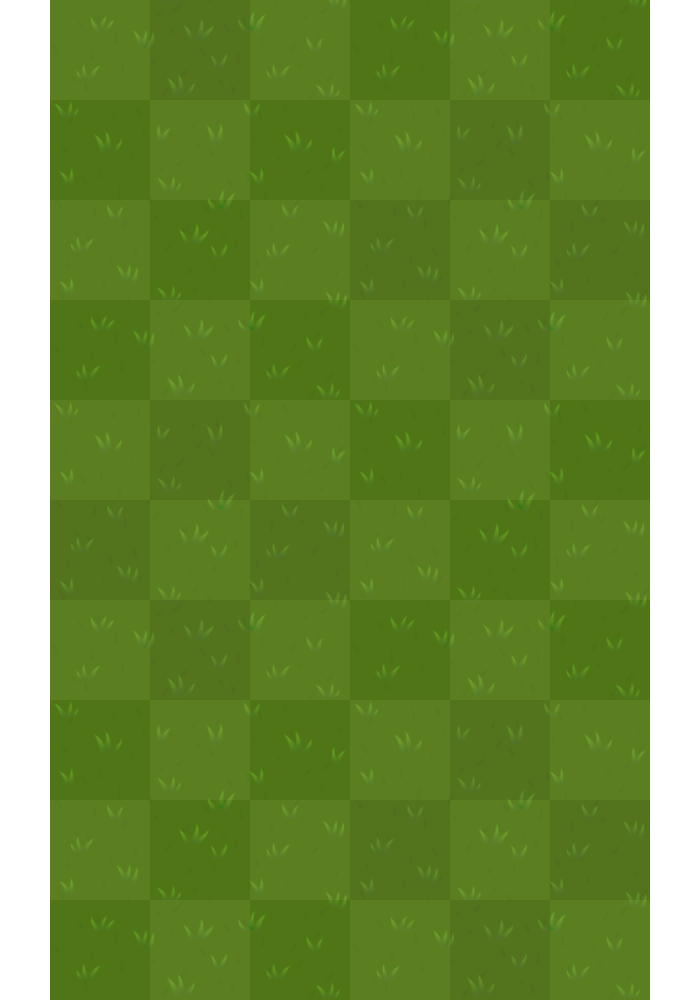
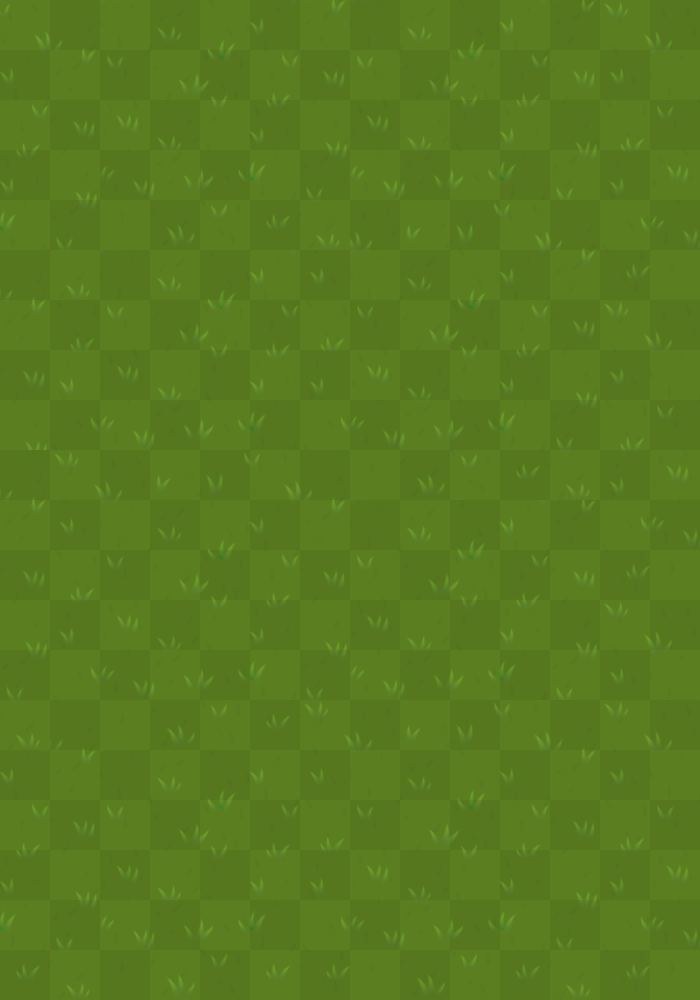
cambios de camara y mapa

Changed region(s): [[0.93, 0.0, 1.0, 1.0], [0.0, 0.0, 0.09, 1.0]]

diff --git a/src/private/Mapa.cpp b/src/private/Mapa.cpp
@@ -40,6 +40,10 @@ void Mapa::cargaMapa()
         tileset = tileset->NextSiblingElement("tileset");
     }
 
+    textura_fondo_ventana.loadFromFile("./resources/maps/tiles/fondoExterior.png");
+    sprite_fondo_ventana.setTexture(textura_fondo_ventana);
+    sprite_fondo_ventana.setPosition(-189.f, -100.f);
+    vectorPintar2.push_back(sprite_fondo_ventana);
     vector<sf::Texture*> vectorTextura;
     vector<sf::Sprite*> vectorSprite;
     for(int i=0; i<numTileset;i++)
@@ -163,6 +167,7 @@ void Mapa::cargaMapa()
                     {
                         if(valor <= vectorSprite.size())
                         {
+                            vectorSprite[valor-1]->setPosition(posY, posX);
                             vectorPintar2.push_back(*vectorSprite[valor-1]);
                             vPosX.push_back(posX);
                             vPosY.push_back(posY);
@@ -181,16 +186,16 @@ void Mapa::cargaMapa()
         layer = layer->NextSiblingElement("layer");
     }
     //Seteamos posiciones
-    vector<Sprite>::iterator j;
-    vector<int>::iterator x = vPosX.begin();
-    vector<int>::iterator y = vPosY.begin();
-    for(j = vectorPintar2.begin(); j != vectorPintar2.end(); j++)
-    {
-        //(*j).setOrigin(80/2,80/2);
-        (*j).setPosition(*y,*x);
-        x++;
-        y++;
-    }
+    // vector<Sprite>::iterator j;
+    // vector<int>::iterator x = vPosX.begin();
+    // vector<int>::iterator y = vPosY.begin();
+    // for(j = vectorPintar2.begin(); j != vectorPintar2.end(); j++)
+    // {
+    //     //(*j).setOrigin(80/2,80/2);
+    //     (*j).setPosition(*y,*x);
+    //     x++;
+    //     y++;
+    // }
 }
 
 list<Actor*> Mapa::getActors()

diff --git a/src/private/Engine.cpp b/src/private/Engine.cpp
@@ -42,8 +42,8 @@ void Engine::setView(float centerY, float borderX)
     //     posArriba = 280.f;
     if(posArriba > 380.f)
         posArriba = 380.f;
-    vista.reset(sf::FloatRect(0.f, posArriba, app.getSize().x, app.getSize().y));
-    vista.setViewport(sf::FloatRect(borderX, 0, 1.f, 1.f));
+    vista.reset(sf::FloatRect(borderX, posArriba, app.getSize().x, app.getSize().y));
+    //vista.setViewport(sf::FloatRect(borderX, 0, 1.f, 1.f));
     app.setView(vista);
 }
 

diff --git a/src/private/game.cpp b/src/private/game.cpp
@@ -154,10 +154,6 @@ void game::run(){
         else{
             vMapas[mapaActual]->render();
             for (Actor *actor : actors) {
-                if(dynamic_cast<Mejora*>(actor))
-                {
-                    cout << "cuidao" << endl;
-                }
                 actor->Draw(percentTick, delta);
             }
             Hud* hud = Hud::Instance();

diff --git a/src/private/Player.cpp b/src/private/Player.cpp
@@ -152,7 +152,7 @@ void Player::Draw(double percent, double delta ){
 
     //Movemos la camara 
     Engine* eng = Engine::Instance();
-    eng->setView(currentLoc.y, 0.13f);
+    eng->setView(currentLoc.y, -189.f);
 
 
     // Draw movement arrow

diff --git a/src/public/Mapa.h b/src/public/Mapa.h
@@ -60,5 +60,7 @@ class Mapa
         int num_layers;
         int tamMapaX, tamMapaY, tamTileX, tamTileY;
         Engine* eng;
+        Texture textura_fondo_ventana;
+        Sprite sprite_fondo_ventana;
         void cargaMapa();
 };
